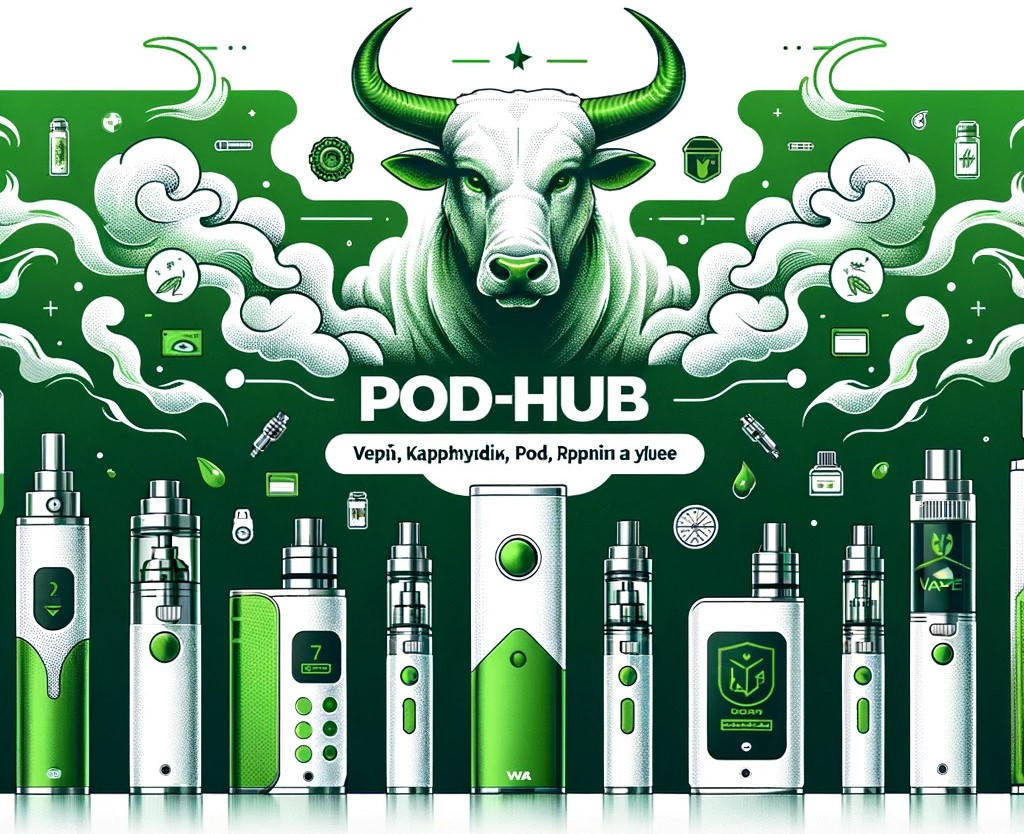
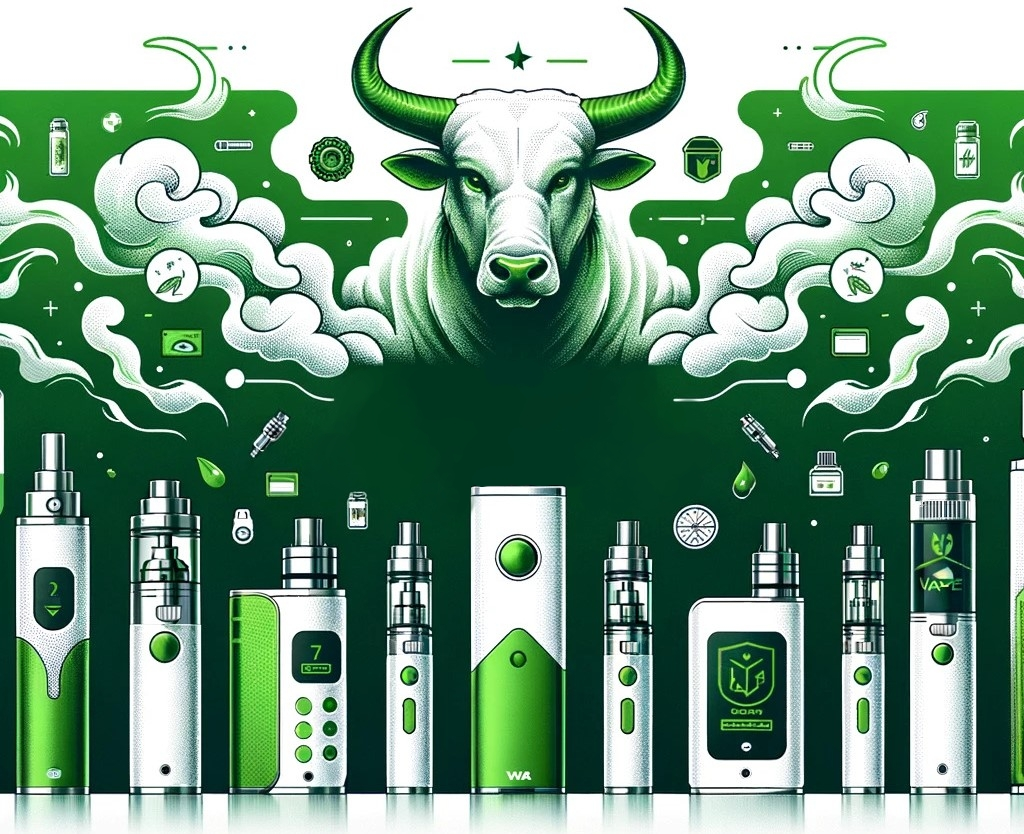
changed photos, text

Changed region(s): [[0.3125, 0.4365, 0.6875, 0.6235]]

diff --git a/index.html b/index.html
@@ -241,9 +241,9 @@
 <section id="home-section" class="hero d-flex justify-content-center align-items-center">
 	<div class="overlay"></div>
 	<div class="hero-content container">
-		<h1 class="mb-2 text-white" id="hero-title">Podhub</h1>
+		<h1 class="mb-2 text-white" id="hero-title">Podhub | Vape shop</h1>
 		<h2 class="subheading mb-4 text-white" id="hero-text">
-			Один клік до нового досвіду:<br />вейпи та одноразки для кожного
+			Один клік до нового досвіду:<br />вейпи, PODіки та одноразки для кожного
 			смаку
 		</h2>
 	</div>
@@ -260,21 +260,21 @@
 		if (window.innerWidth > 768) { // If the viewport width is greater than 768px (desktop)
 			if (view) {
 				heroSection.style.backgroundImage = "url('img/bull2.jpg')";
-				heroTitle.textContent = "Vape shop";
+				heroTitle.textContent = "Podhub | Vape shop";
 				heroText.innerHTML =
-					"Готовий радувати своїх клієнтів<br>широким та смачненьким асортиментом!";
+					"Готові задовольнити своїх клієнтів<br>різноманітним та смачненьким асортиментом!";
 			} else {
 				heroSection.style.backgroundImage = "url('img/bull.jpg')";
-				heroTitle.textContent = "Podhub";
+				heroTitle.textContent = "Podhub | Vape shop";
 				heroText.innerHTML =
-					"Один клік до нового досвіду:<br>вейпи та одноразки для кожного смаку";
+					"Один клік до нового досвіду:<br>вейпи, PODіки та одноразки для кожного смаку";
 			}
 			view = !view;
 		} else { // If the viewport width is less than or equal to 768px (mobile)
 			heroSection.style.backgroundImage = "url('img/bull-mobile.jpg')";
-			heroTitle.textContent = "Podhub";
+			heroTitle.textContent = "Podhub | Vape shop";
 			heroText.innerHTML =
-				"Один клік до нового досвіду:<br>вейпи та одноразки для кожного смаку";
+				"Один клік до нового досвіду:<br>вейпи, PODіки та одноразки для кожного смаку";
 		}
 	}
 

diff --git a/pages/index/index.html b/pages/index/index.html
@@ -123,9 +123,9 @@
 <section id="home-section" class="hero d-flex justify-content-center align-items-center">
 	<div class="overlay"></div>
 	<div class="hero-content container">
-		<h1 class="mb-2 text-white" id="hero-title">Podhub</h1>
+		<h1 class="mb-2 text-white" id="hero-title">Podhub | Vape shop</h1>
 		<h2 class="subheading mb-4 text-white" id="hero-text">
-			Один клік до нового досвіду:<br />вейпи та одноразки для кожного
+			Один клік до нового досвіду:<br />вейпи, PODіки та одноразки для кожного
 			смаку
 		</h2>
 	</div>
@@ -142,21 +142,21 @@
 		if (window.innerWidth > 768) { // If the viewport width is greater than 768px (desktop)
 			if (view) {
 				heroSection.style.backgroundImage = "url('img/bull2.jpg')";
-				heroTitle.textContent = "Vape shop";
+				heroTitle.textContent = "Podhub | Vape shop";
 				heroText.innerHTML =
-					"Готовий радувати своїх клієнтів<br>широким та смачненьким асортиментом!";
+					"Готові задовольнити своїх клієнтів<br>різноманітним та смачненьким асортиментом!";
 			} else {
 				heroSection.style.backgroundImage = "url('img/bull.jpg')";
-				heroTitle.textContent = "Podhub";
+				heroTitle.textContent = "Podhub | Vape shop";
 				heroText.innerHTML =
-					"Один клік до нового досвіду:<br>вейпи та одноразки для кожного смаку";
+					"Один клік до нового досвіду:<br>вейпи, PODіки та одноразки для кожного смаку";
 			}
 			view = !view;
 		} else { // If the viewport width is less than or equal to 768px (mobile)
 			heroSection.style.backgroundImage = "url('img/bull-mobile.jpg')";
-			heroTitle.textContent = "Podhub";
+			heroTitle.textContent = "Podhub | Vape shop";
 			heroText.innerHTML =
-				"Один клік до нового досвіду:<br>вейпи та одноразки для кожного смаку";
+				"Один клік до нового досвіду:<br>вейпи, PODіки та одноразки для кожного смаку";
 		}
 	}
 

diff --git a/checkout.html b/checkout.html
@@ -116,7 +116,7 @@
 
 	<!-- END nav -->
 
-	<div class="hero-wrap hero-bread" style="background-image: url('img/bull.jpg')">
+	<div class="hero-wrap hero-bread" style="background-image: url('img/smoke.jpg')">
 	<div class="container">
 		<div
 			class="row no-gutters slider-text align-items-center justify-content-center"

diff --git a/pages/checkout/checkout.html b/pages/checkout/checkout.html
@@ -1,4 +1,4 @@
-<div class="hero-wrap hero-bread" style="background-image: url('img/bull.jpg')">
+<div class="hero-wrap hero-bread" style="background-image: url('img/smoke.jpg')">
 	<div class="container">
 		<div
 			class="row no-gutters slider-text align-items-center justify-content-center"
